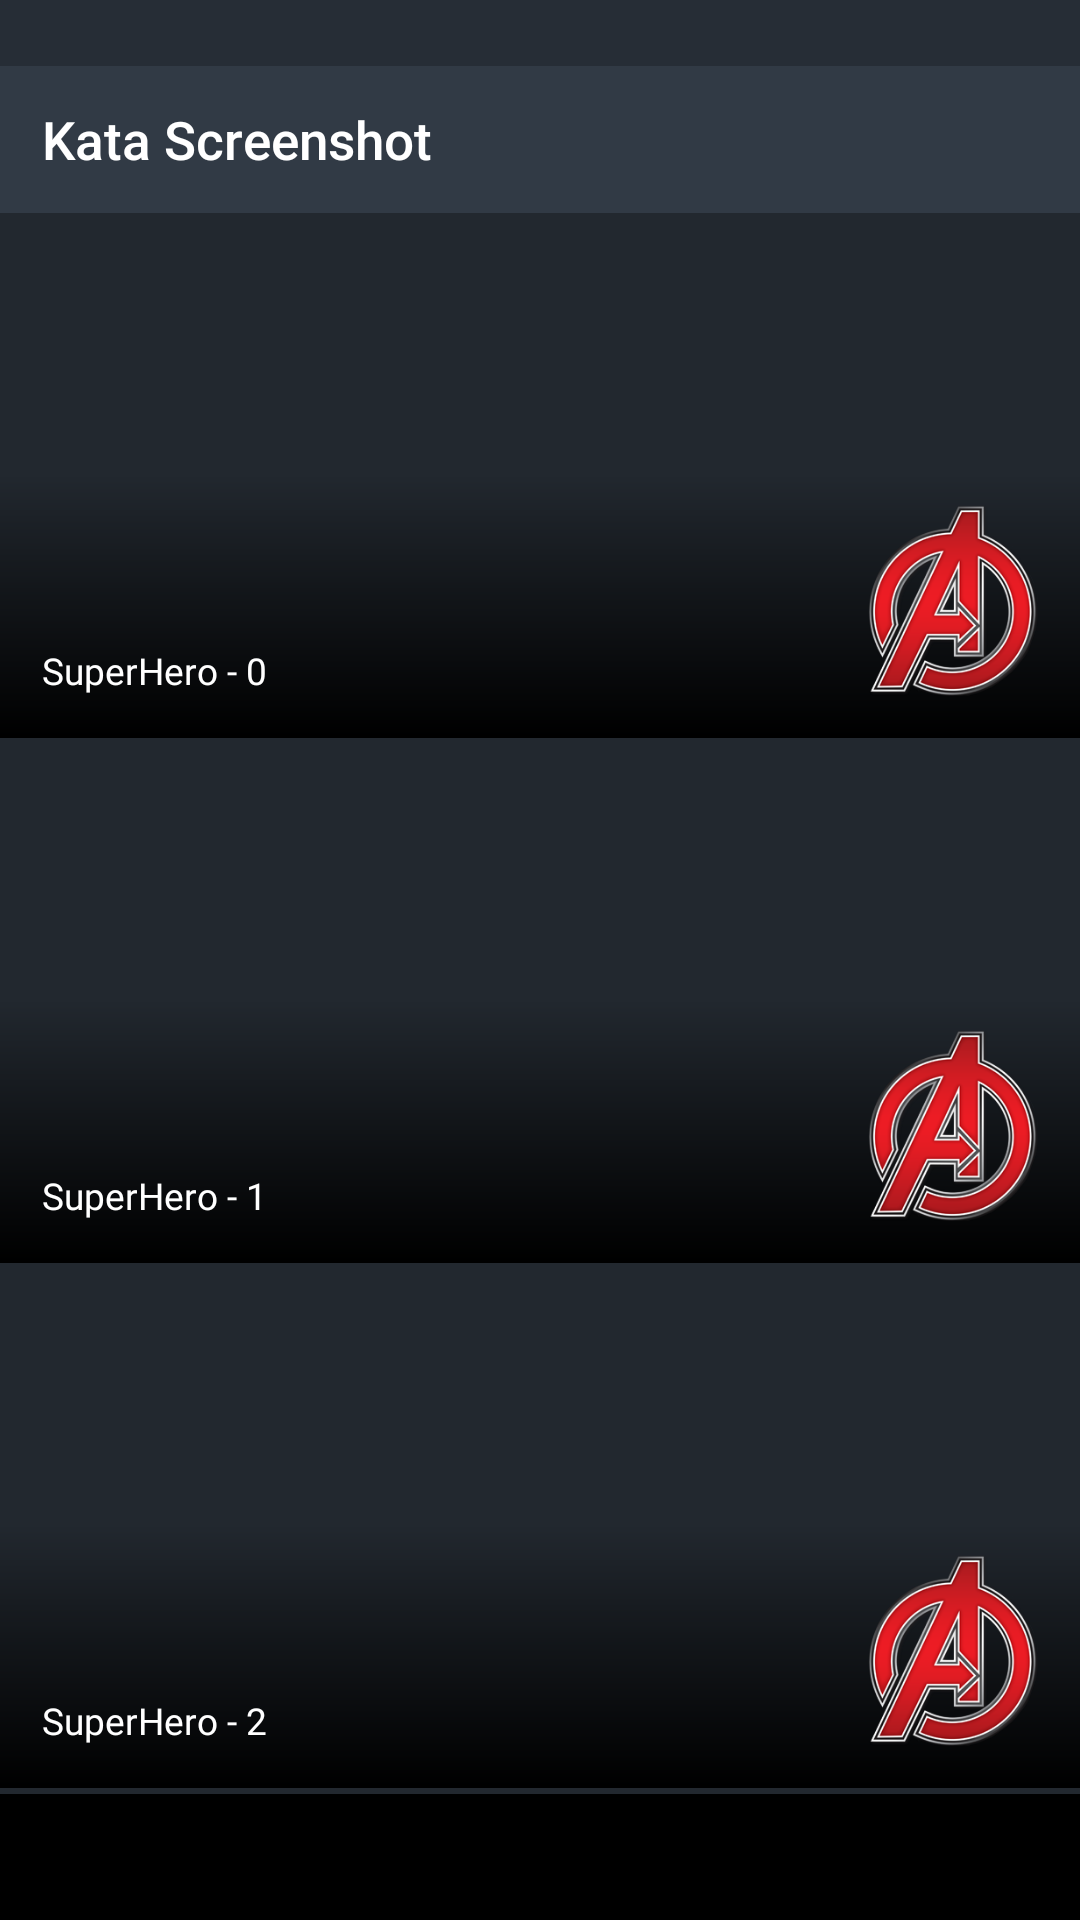
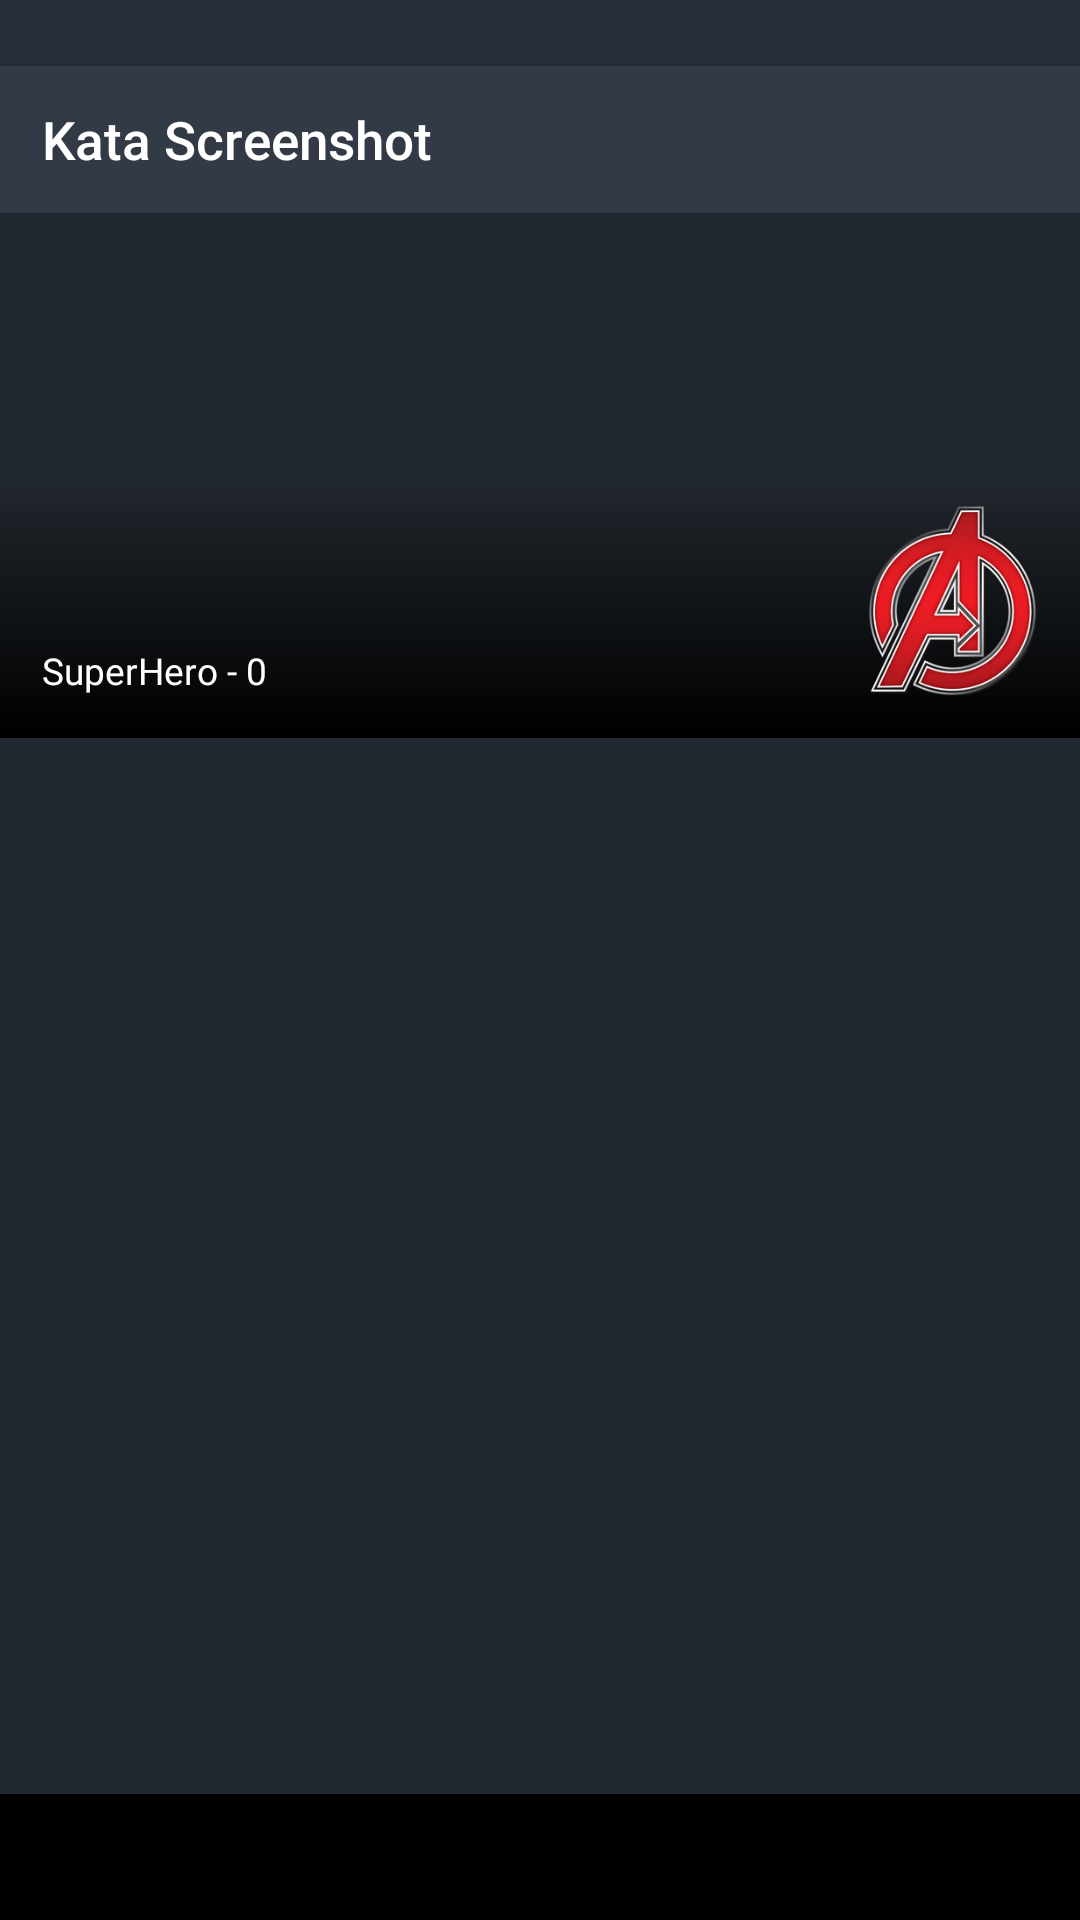
Change test

Changed region(s): [[0.0, 0.8125, 1.0, 0.9375], [0.0, 0.5312, 1.0, 0.6562]]

diff --git a/app/src/androidTest/java/com/karumi/screenshot/MainActivityTest.java b/app/src/androidTest/java/com/karumi/screenshot/MainActivityTest.java
@@ -63,7 +63,7 @@ public class MainActivityTest extends ScreenshotTest {
 
   @Test
   public void showsOneSuperHero(){
-    givenThereAreSomeSuperHeroes(10, true);
+    givenThereAreSomeSuperHeroes(1, true);
 
     Activity activity = startActivity();
 
